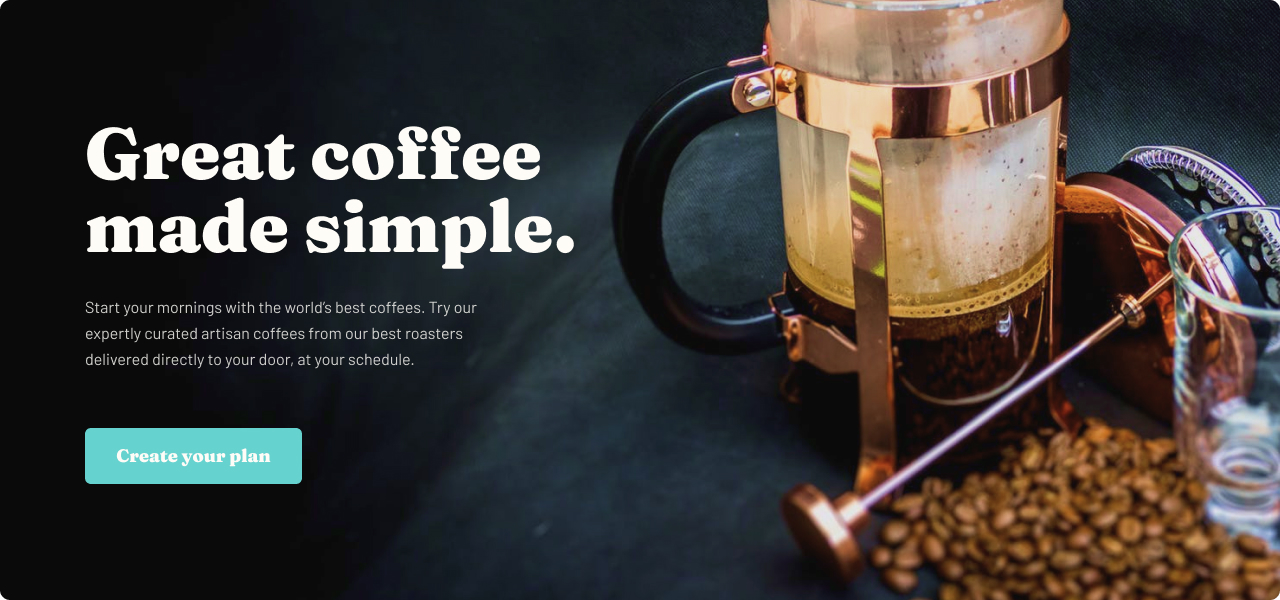
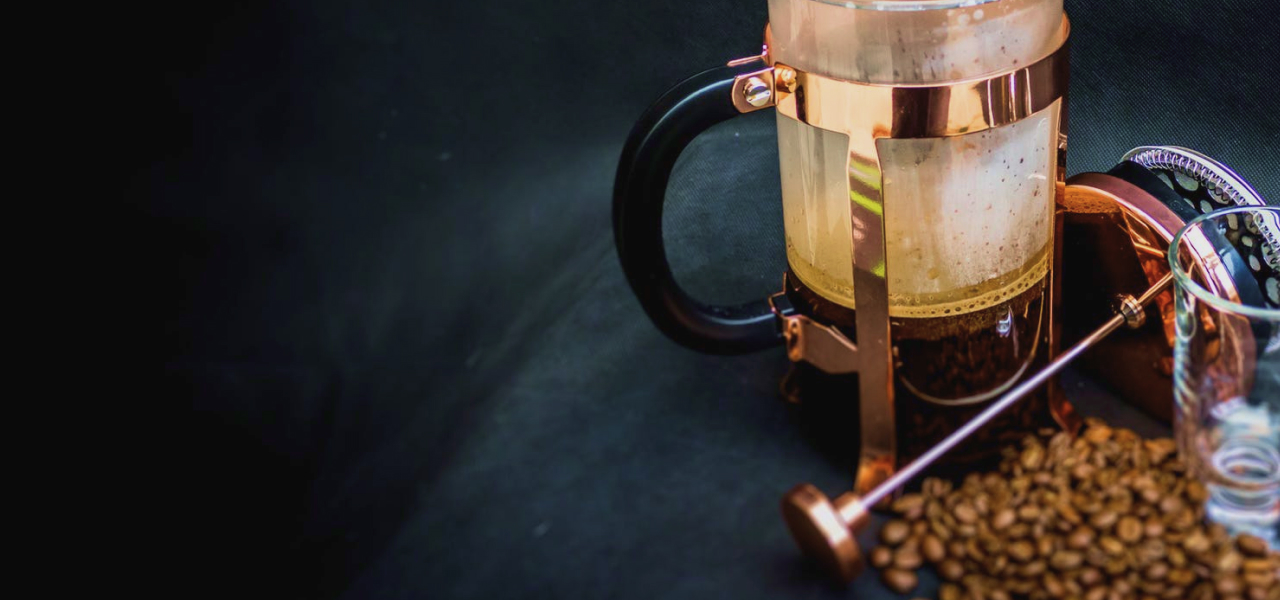
section:collection

diff --git a/index.html b/index.html
@@ -6,13 +6,13 @@
     <meta name="viewport" content="width=device-width, initial-scale=1.0">
     <link rel="stylesheet" href="./css/normalize.css">
     <link rel="stylesheet" href="./css/main.css">
-    <title>Document</title>
+    <title>Coffeeroasters</title>
 </head>
 <body>
     <!-- HEADER -->
     <header>
         <div class="container site-top">
-            <a id="logo" class="logo-link" href=""><img class="logo-img" src="./img/logo-coffe.svg" alt="company logo" width="236" height="26"></a>
+            <a id="logo" class="logo-link" href="#"><img class="logo-img" src="./img/logo-coffe.svg" alt="company logo" width="236" height="26"></a>
             <nav>
                 <ul class="header-list">
                     <li class="header-item"><a class="header-item-link" href="#logo">HOME</a></li>
@@ -23,7 +23,42 @@
         </div>
     </header>
     <main>
-
+        <section class="hero">
+            <div class="container hero-container">
+                <h1 class="visually-hidden">Coffeeroasters</h1>
+                <div class="hero-left">
+                    <h2 class="hero-left-heading">Great coffee made simple.</h2>
+                    <p class="hero-left-disc">Start your mornings with the world’s best coffees. Try our expertly curated artisan coffees from our best roasters delivered directly to your door, at your schedule.</p>
+                    <button class="site-button">Create your plan</button>
+                </div>
+            </div>
+        </section>
+        <section class="collection">
+            <div class="collection-container">
+                <ul class="collection-list">
+                    <li class="collection-item">
+                        <img class="collection-item-img" src="./img/Gran-Espresso.png" alt="" width="255" height="193">
+                        <h3 class="collection-item-heading">Gran Espresso</h3>
+                        <p class="collection-item-disc">Light and flavorful blend with cocoa and black pepper for an intense experience.</p>
+                    </li>
+                    <li class="collection-item">
+                        <img class="collection-item-img" src="./img/planalto.png" alt="" width="255" height="193">
+                        <h3 class="collection-item-heading">Planalto</h3>
+                        <p class="collection-item-disc">Brazilian dark roast with rich and velvety body, and hints of fruits and nuts.</p>
+                    </li>
+                    <li class="collection-item">
+                        <img class="collection-item-img" src="./img/piccollo.png" alt="" width="255" height="193">
+                        <h3 class="collection-item-heading">Piccollo</h3>
+                        <p class="collection-item-disc">Mild and smooth blend featuring notes of toasted almond and dried cherry.</p>
+                    </li>
+                    <li class="collection-item">
+                        <img class="collection-item-img" src="./img/danche.png" alt="" width="235" height="174">
+                        <h3 class="collection-item-heading">Danche</h3>
+                        <p class="collection-item-disc">Ethiopian hand-harvested blend densely packed with vibrant fruit notes.</p>
+                    </li>
+                </ul>
+            </div>
+        </section>
     </main>
     <footer>
         

diff --git a/css/main.css b/css/main.css
@@ -100,6 +100,7 @@ img {
     white-space: nowrap;
     width: 1px;
 }
+/* HEADER */
 header {
     padding-top: 44px;
     padding-bottom: 44px;
@@ -109,6 +110,10 @@ header {
     align-items: center;
     justify-content: space-between;
 }
+#logo {
+    display: inline-block;
+}
+/* HEADER LIST */
 .header-list {
     margin: 0;
     padding: 0;
@@ -131,4 +136,87 @@ header {
 }
 .header-item-link:active {
     color: #333D4B;
+}
+/* MAIN */
+/* HERO */
+.hero-container {
+    width: 1280px;
+    background-image: url('../img/background-hero-top.jpg');
+    background-repeat: no-repeat;
+    background-position-x: center;
+    border-radius: 5px;
+    padding-top: 117px;
+    padding-bottom: 116px;
+    padding-left: 85px;
+}
+.hero-left {
+    width: 493px;
+}
+.hero-left-heading {
+    margin: 0;
+    padding: 0;
+    margin-bottom: 32px;
+    font-size: 72px;
+    line-height: 72px;
+    color: #FEFCF7;
+}
+.hero-left-disc {
+    margin: 0;
+    padding: 0;
+    margin-bottom: 56px;
+    font-family: 'Barlow';
+    line-height: 26px;
+    color: #FEFCF7;
+    mix-blend-mode: normal;
+    opacity: 0.8;
+}
+.site-button {
+    padding: 15px 31px;
+    font-size: 18px;
+    line-height: 25px;
+    text-align: center;
+    color: #FEFCF7;
+    background-color: #0E8784;
+    border-radius: 5px;
+    border: transparent;
+    cursor: pointer;
+}
+.site-button:active {
+    background-color: #66D2CF;
+}
+/* COLLECTION */
+.collection {
+    padding-top: 136px;
+    padding-bottom: 200px;
+}
+.collection-container {
+    width: 1151px;
+    padding: 0 20px;
+    margin: 0 auto;
+}
+.collection-list {
+    display: flex;
+    align-items: center;
+    justify-content: space-between;
+    list-style: none;
+}
+.collection-item + .collection-item {
+    margin-left: 30px;
+}
+.collection-item-img {
+    margin-bottom: 72px;
+}
+.collection-item-heading {
+    margin: 0;
+    padding: 0;
+    margin-bottom: 24px;
+    line-height: 32px;
+    text-align: center;
+    color: #333D4B;
+}
+.collection-item-disc {
+    margin: 0;
+    padding: 0;
+    font-family: 'Barlow';
+    text-align: center;
 }
